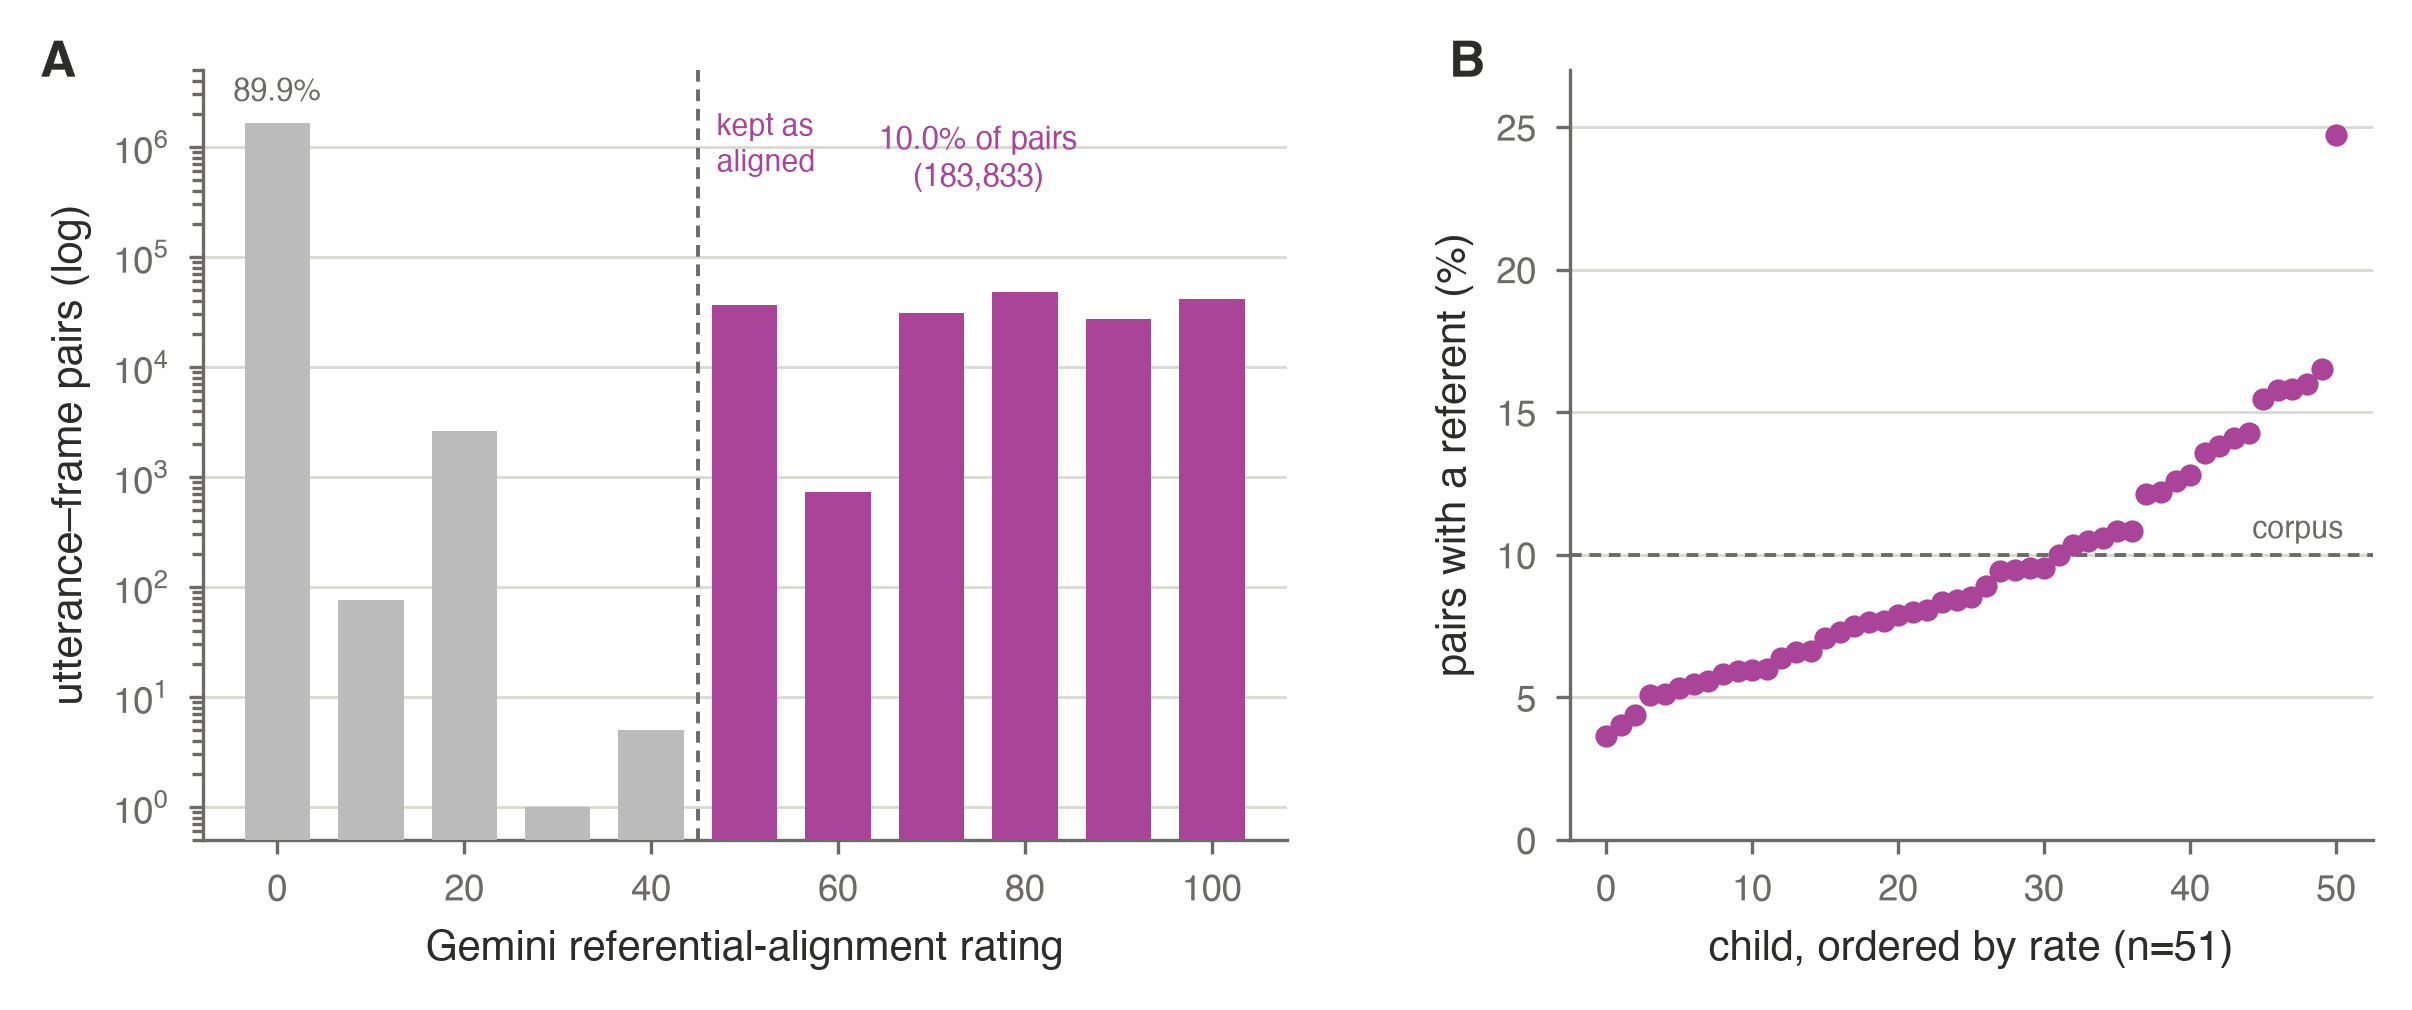
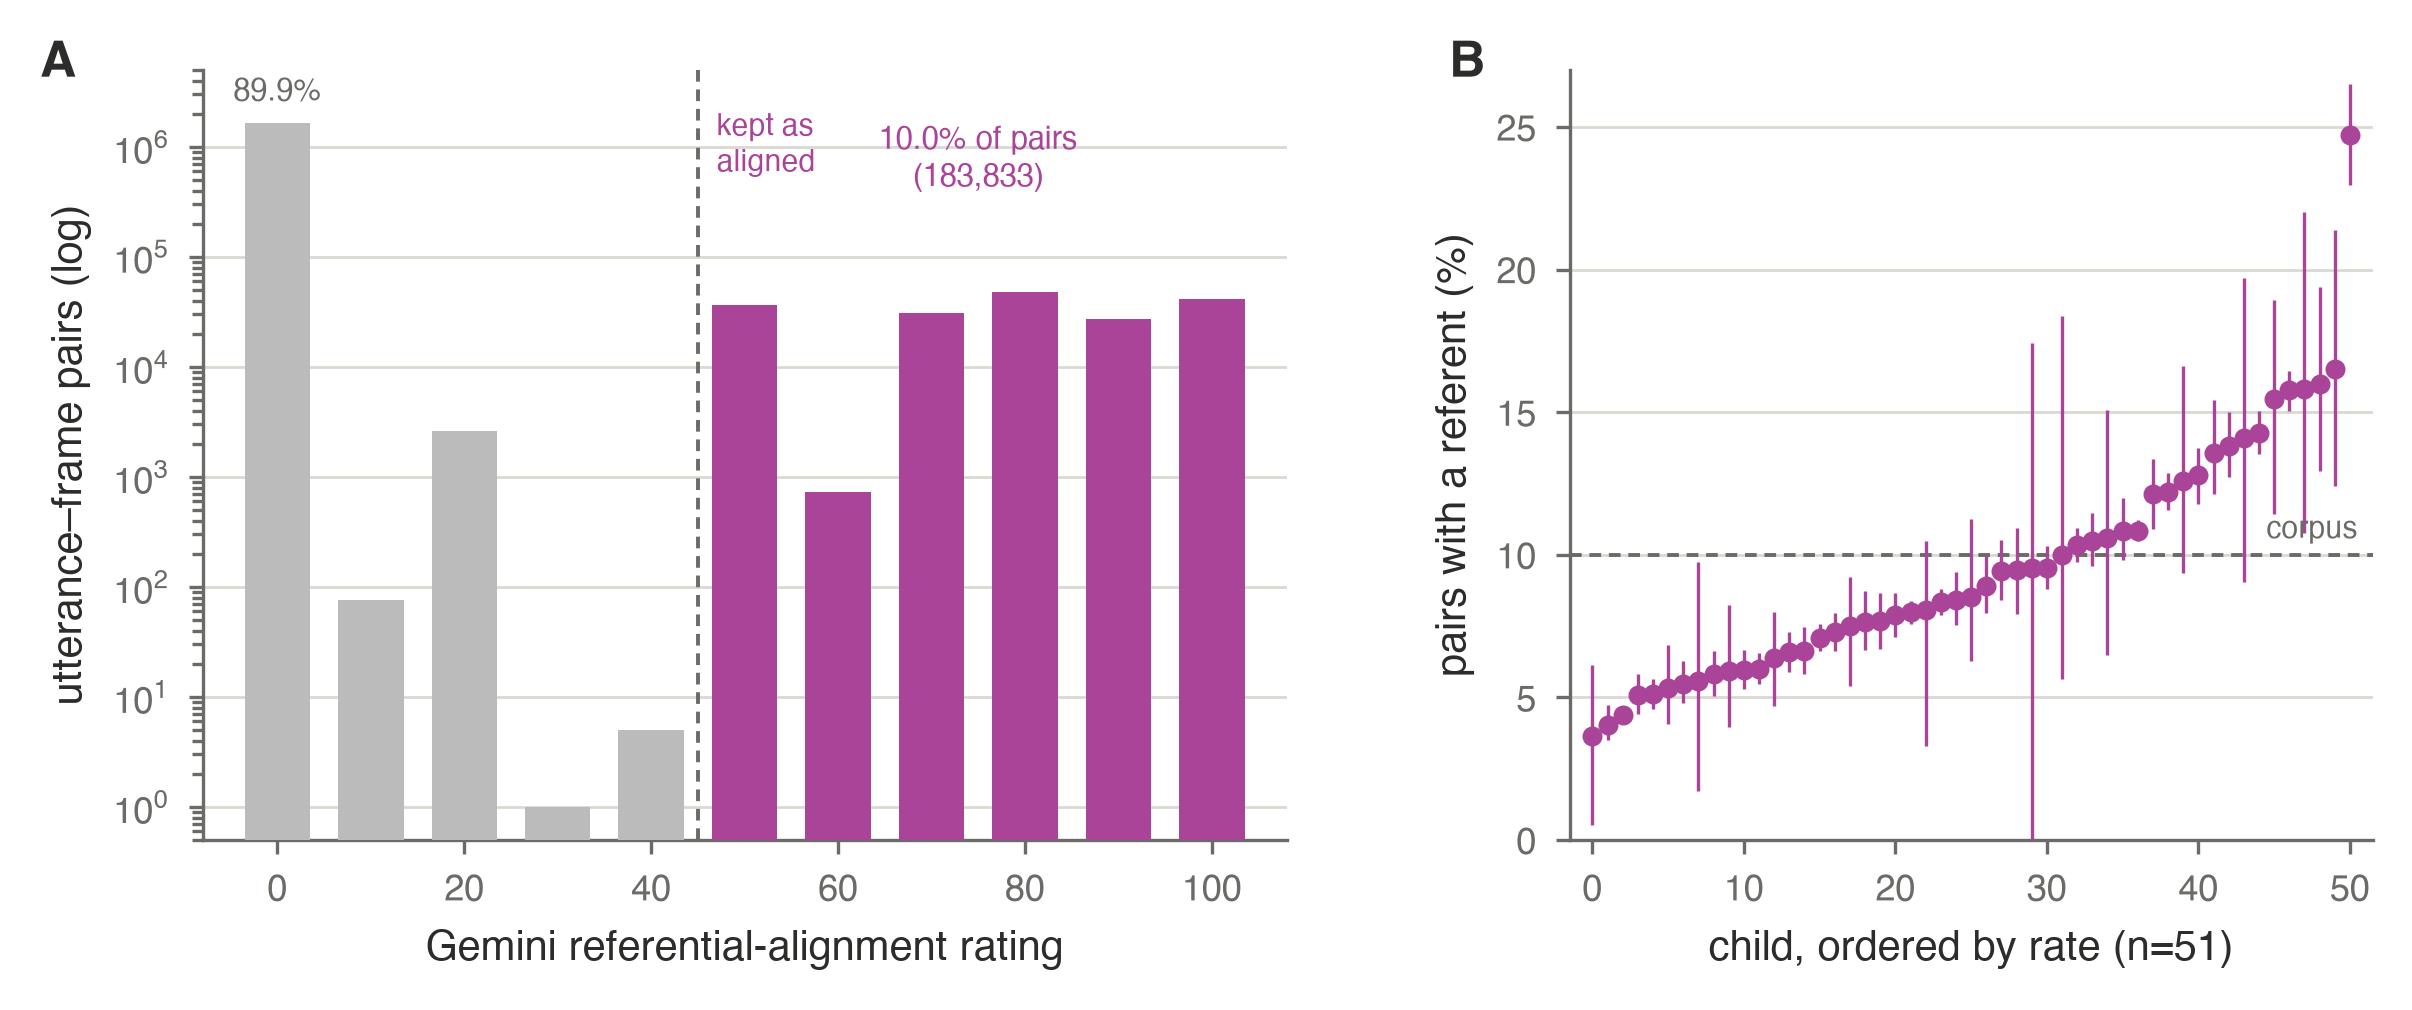
figS_alignment_scores: video-cluster bootstrap intervals per child
Pairs within a video share a scene and a speaker, so treating them as independent
understates the uncertainty about two-fold (naive binomial SE 0.09 vs cluster SE 0.18 for
the largest child; the ratio is ~2x at every corpus size). Panel B now resamples each
child's VIDEOS with replacement, 2000 draws, 2.5-97.5 percentile -- matching the 95%
convention used everywhere else.

Videos per child run 3 to 1,225, so the intervals are honestly very uneven: the four
children with fewer than five videos get intervals spanning most of the y-axis, which is
the right thing to show given they contribute correspondingly little.

diff --git a/figures/figS_alignment_scores.py b/figures/figS_alignment_scores.py
@@ -8,7 +8,9 @@ A: the rating distribution over all scored pairs. Counts are on a log axis becau
    aligned mass would otherwise be invisible. Note the aligned mass is spread over 50-100
    rather than piled at 100.
 B: the same selection expressed per child, to show that the ~10% aligned fraction is a
-   property of the corpus rather than of a few children.
+   property of the corpus rather than of a few children. Intervals are a cluster bootstrap
+   over that child's VIDEOS, not over pairs: pairs within a video share a scene and a
+   speaker, so treating them as independent understates the uncertainty about two-fold.
 
 Source: the committed release diagnostics, not a live cluster read.
 """
@@ -20,9 +22,17 @@ import matplotlib.pyplot as plt
 
 D = __import__("pathlib").Path(__file__).resolve().parent.parent / "diagnostics" / "2026.1"
 d = pd.read_parquet(D / "dist_alignment.parquet").sort_values("alignment_bin")
-C = pd.read_parquet(D / "child_level.parquet")
-C = C[C.ref_scored > 0].copy()
-C["rate"] = 100 * C.ref_has_referent / C.ref_scored
+V = pd.read_parquet(D / "video_level.parquet")
+V = V[V.ref_scored > 0]
+rng = np.random.default_rng(0)
+rows = []
+for ch, g in V.groupby("child"):
+    h, n = g.ref_has_referent.values, g.ref_scored.values
+    i = rng.integers(0, len(h), (2000, len(h)))          # resample videos, not pairs
+    bs = 100 * h[i].sum(1) / n[i].sum(1)
+    rows.append(dict(child=ch, rate=100 * h.sum() / n.sum(), n_videos=len(g),
+                     lo=np.percentile(bs, 2.5), hi=np.percentile(bs, 97.5)))
+C = pd.DataFrame(rows)
 
 tot = d["count"].sum()
 ge = d[d.alignment_bin >= 50]["count"].sum()
@@ -47,11 +57,13 @@ ax.set_ylabel("utterance–frame pairs (log)")
 T.clean(ax)
 
 # ---- B: per child ----------------------------------------------------------------
-o = C.sort_values("rate")
-bx.scatter(range(len(o)), o.rate, s=9, color=T.ORACLE, zorder=3)
+o = C.sort_values("rate").reset_index(drop=True)
+bx.errorbar(range(len(o)), o.rate, yerr=[o.rate - o.lo, o.hi - o.rate], fmt="o",
+            color=T.ORACLE, ms=2.6, elinewidth=0.6, capsize=0, zorder=3)
 bx.axhline(100 * ge / tot, color=T.SUB, lw=0.7, ls=(0, (3, 2)), zorder=2)
 bx.text(len(o) - 0.5, 100 * ge / tot + 0.6, "corpus", fontsize=5.4, color=T.SUB, ha="right")
 bx.set_xlabel(f"child, ordered by rate (n={len(o)})")
+bx.set_xlim(-1.5, len(o) + 0.5)
 bx.set_ylabel("pairs with a referent (%)")
 bx.set_ylim(0, 27)
 T.clean(bx)
@@ -59,7 +71,9 @@ T.clean(bx)
 print(f"  NOTE figS_alignment_scores: {tot:,} scored pairs; {100*zero/tot:.1f}% exactly 0, "
       f"{mid:,} between 0 and 50, {100*ge/tot:.1f}% >= 50. Per-child referent rate median "
       f"{o.rate.median():.1f}% (IQR {o.rate.quantile(.25):.1f}-{o.rate.quantile(.75):.1f}, "
-      f"range {o.rate.min():.1f}-{o.rate.max():.1f})")
+      f"range {o.rate.min():.1f}-{o.rate.max():.1f}); video-cluster bootstrap, "
+      f"{o.n_videos.min()}-{o.n_videos.max()} videos per child, "
+      f"{int((o.n_videos < 5).sum())} children with <5")
 for a, l in zip((ax, bx), "AB"):
     T.panel(a, l, dx=-0.15)
 T.save(fig, "figS_alignment_scores")
